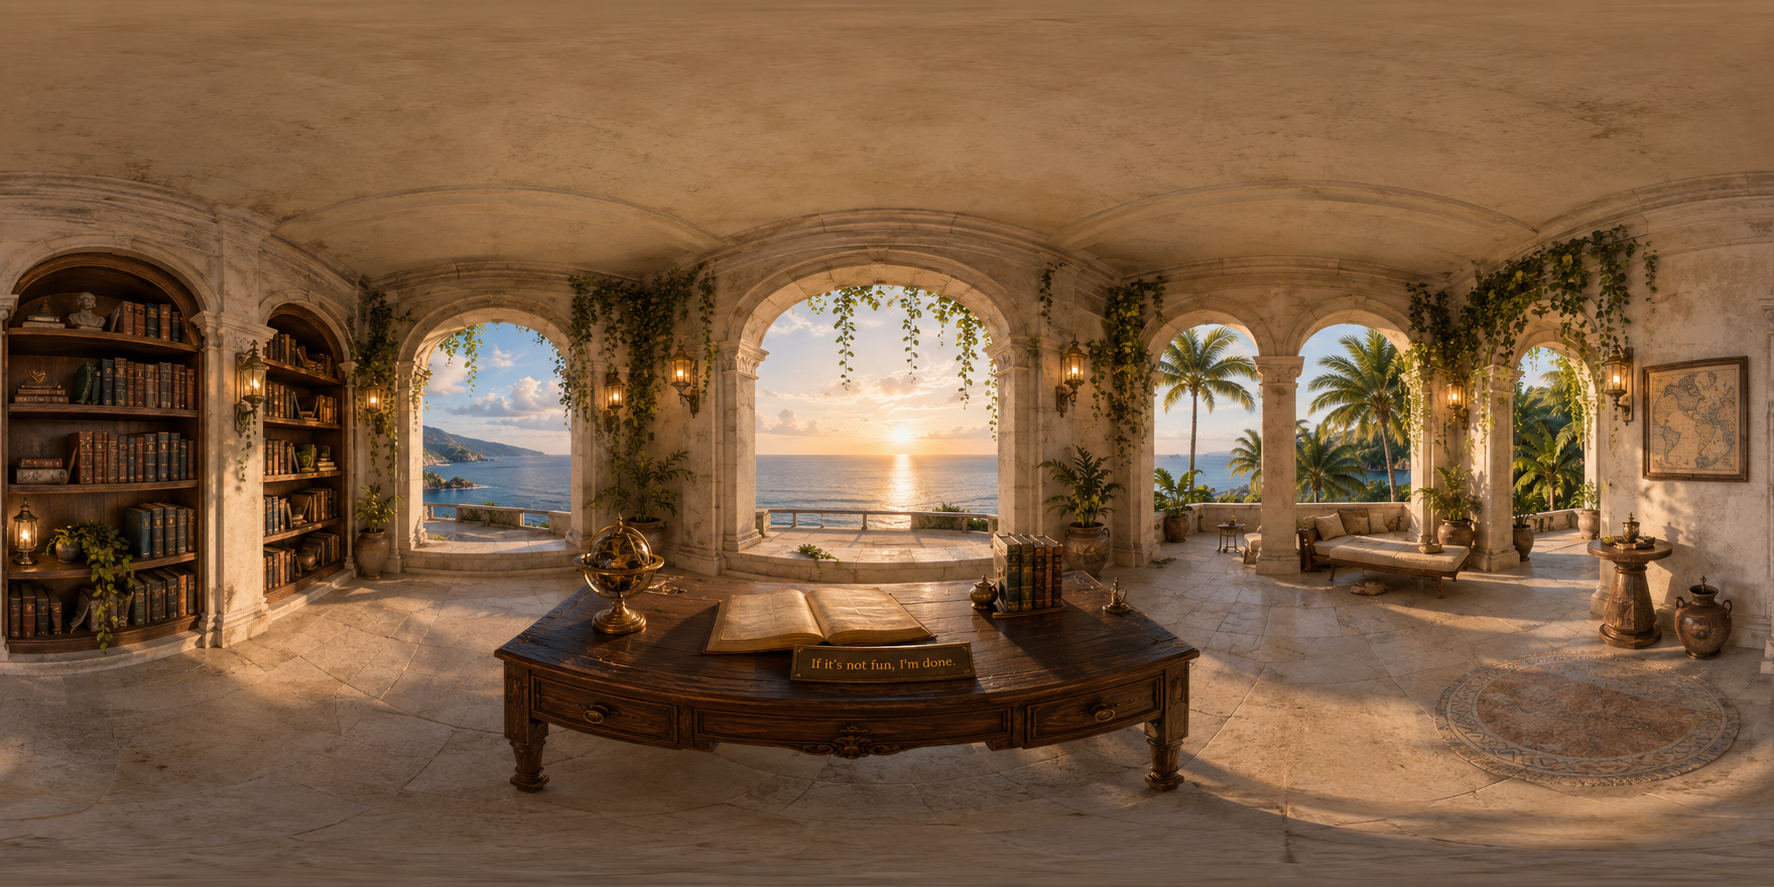
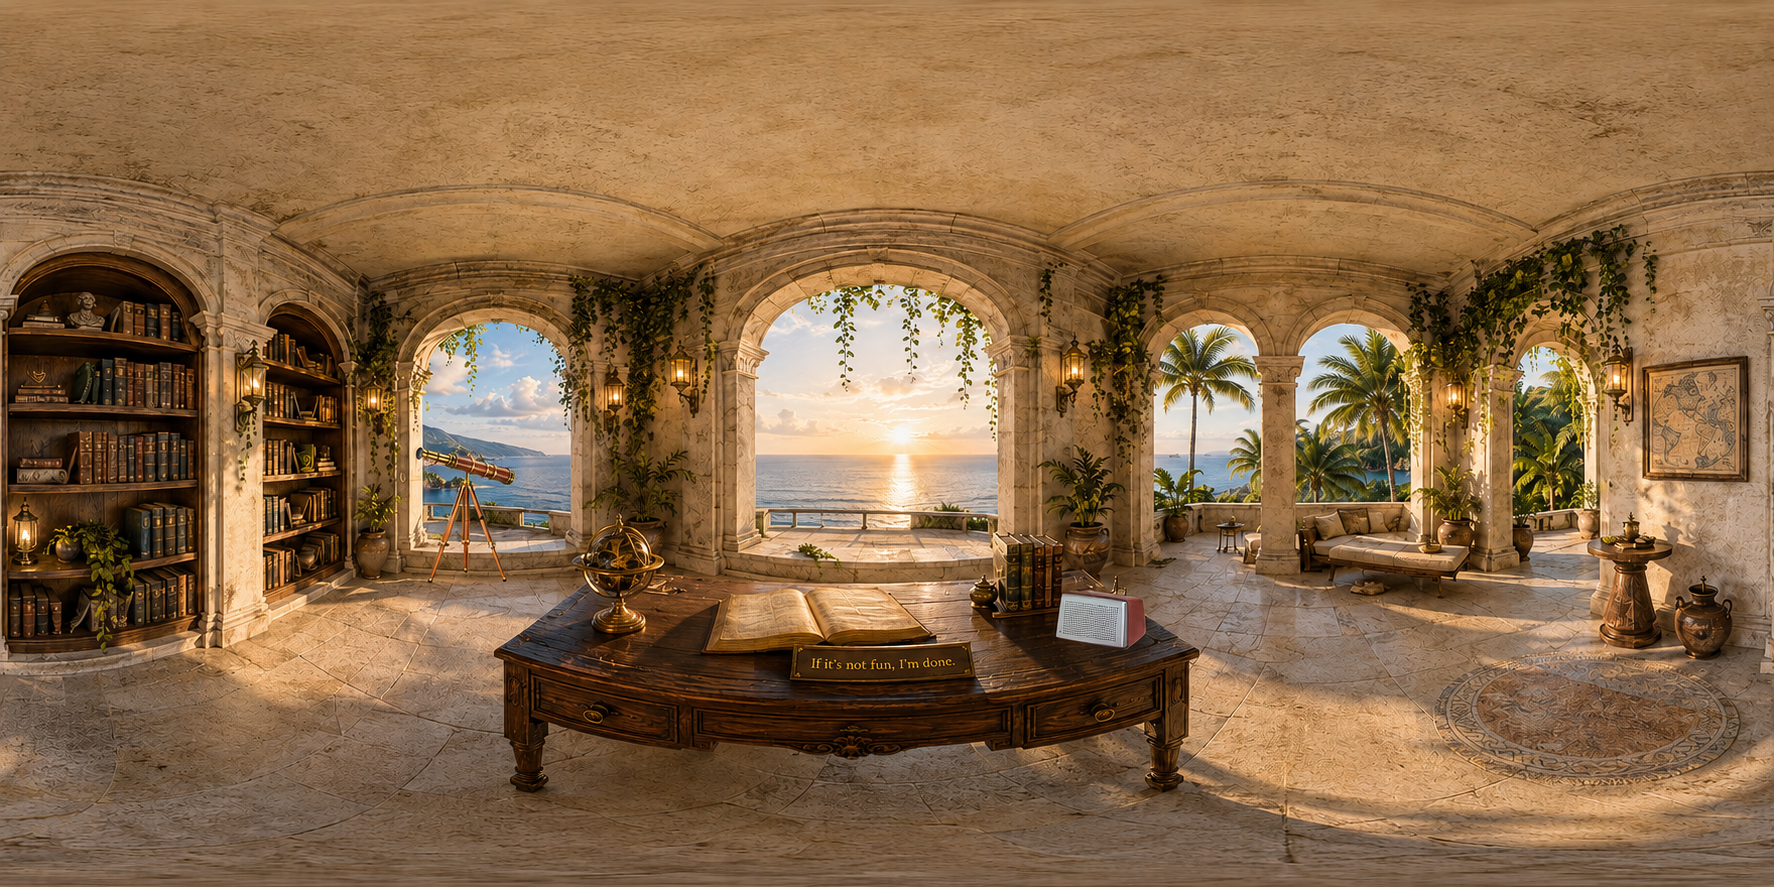
HOLOSPHERE: real telescope + intercom hotspots, new panorama with both baked in
Replaces the fixed-screen placeholder intercom button from the first
pass with genuine 3D-positioned hotspots for both the telescope and
the intercom, since both are now actually rendered in this new
panorama (previous version only had the intercom as a UI overlay,
nothing telescope-related at all).

Positions determined by actually measuring pixel coordinates on the
real panorama image (crop + pixel math, not guessed), then converted
from image UV space to spherical lon/lat: telescope at (84.42, -9.44),
intercom at (216.12, -30.34). Both hotspots are real Vector3 points in
the Three.js scene, projected to screen space every frame via
camera.project(), so they track correctly as the user drags to look
around, and correctly hide themselves when facing away (behind the
camera) rather than showing a wrapped/flipped position.

New: clicking the telescope shows a random image from a boat pool
(currently just one real asset -- the life-preserver/pina-colada
shot -- more filenames can be added to the BOAT_IMAGES array as
they're generated, no other code changes needed).

Honest flag, not silently assumed: since this panorama is a fresh
regeneration rather than an edit of the previously-tested one, the
computed hotspot positions haven't been visually re-verified the way
earlier panoramas were checked in Blender (Blender was closed
mid-session). Worth a live look once this deploys to confirm the
markers actually land on the telescope and intercom, not just
mathematically close.
[…]

diff --git a/holosphere/index.html b/holosphere/index.html
@@ -19,29 +19,33 @@
     transition: opacity 0.8s ease;
   }
 
-  /* Intercom call button -- a real, styled stand-in until a rendered
-     intercom is actually baked into a future panorama pass. */
-  #intercom-btn {
-    position: fixed; bottom: 8vh; left: 50%; transform: translateX(-50%);
-    z-index: 20; width: 64px; height: 64px; border-radius: 50%;
-    background: radial-gradient(circle at 35% 30%, #b5442e, #7a2a1a);
-    border: 3px solid #d4af37; box-shadow: 0 0 20px rgba(212,175,55,0.5);
-    cursor: pointer; display: flex; align-items: center; justify-content: center;
-    animation: intercomPulse 2.4s ease-in-out infinite;
+  /* 3D hotspot markers -- positioned in world space via raycasting,
+     not fixed screen positions. Both the telescope and intercom are
+     now genuinely rendered in the panorama art itself. */
+  .hotspot-marker {
+    position: fixed; width: 40px; height: 40px; margin: -20px 0 0 -20px;
+    border-radius: 50%; border: 2px solid #d4af37;
+    background: rgba(212,175,55,0.15);
+    box-shadow: 0 0 16px rgba(212,175,55,0.6);
+    cursor: pointer; z-index: 20; pointer-events: auto;
+    animation: hotspotPulse 2.2s ease-in-out infinite;
   }
-  #intercom-btn::before {
-    content: ''; width: 26px; height: 26px; border-radius: 50%;
-    background: repeating-radial-gradient(circle, #ddd 0px, #ddd 1.5px, transparent 1.5px, transparent 4px);
+  @keyframes hotspotPulse {
+    0%, 100% { transform: scale(1); opacity: 0.75; }
+    50% { transform: scale(1.25); opacity: 1; }
   }
-  @keyframes intercomPulse {
-    0%, 100% { box-shadow: 0 0 20px rgba(212,175,55,0.5); }
-    50% { box-shadow: 0 0 34px rgba(212,175,55,0.9); }
+
+  /* Boat reveal panel -- shown when the telescope hotspot is clicked */
+  #boat-panel {
+    position: fixed; inset: 0; z-index: 60; display: none;
+    align-items: center; justify-content: center;
+    background: rgba(0,0,0,0.75);
   }
-  #intercom-label {
-    position: fixed; bottom: 4.5vh; left: 50%; transform: translateX(-50%);
-    z-index: 20; color: #d4af37; font-size: 0.75rem; letter-spacing: 0.2em;
-    text-transform: uppercase; text-shadow: 0 0 8px rgba(0,0,0,0.8);
-    pointer-events: none;
+  #boat-panel img { max-width: 70vw; max-height: 70vh; border-radius: 50%; }
+  #boat-close {
+    position: fixed; top: 30px; right: 30px; z-index: 61;
+    color: #d4af37; font-size: 2rem; cursor: pointer;
+    background: none; border: none; display: none;
   }
 
   /* Welcome panel */
@@ -77,8 +81,13 @@
 <div id="loading-overlay">ENTERING THE HOLOSPHERE&hellip;</div>
 <canvas id="holosphere-canvas"></canvas>
 
-<div id="intercom-btn" aria-label="Call the intercom"></div>
-<div id="intercom-label">Tap to call</div>
+<div id="intercom-hotspot" class="hotspot-marker" style="display:none;"></div>
+<div id="telescope-hotspot" class="hotspot-marker" style="display:none;"></div>
+
+<div id="boat-panel">
+  <img id="boat-image" src="boat-01.png" alt="A distant sight through the telescope" />
+</div>
+<button id="boat-close" aria-label="Close">&times;</button>
 
 <div id="welcome-panel">
   <div id="welcome-box">
@@ -170,6 +179,45 @@
   }, { passive: true });
   canvas.addEventListener("touchend", onPointerUp);
 
+  // --- 3D hotspot markers ---
+  // Positions computed from the actual panorama image: cropped and
+  // pixel-measured to find the telescope and intercom, then converted
+  // from image UV coordinates to spherical lon/lat. Placed at a radius
+  // just inside the panorama sphere so they sit "on" the objects they
+  // represent rather than floating in front of them.
+  function lonLatToVector3(lonDeg, latDeg, radius) {
+    const phi = THREE.MathUtils.degToRad(90 - latDeg);
+    const theta = THREE.MathUtils.degToRad(lonDeg);
+    return new THREE.Vector3(
+      radius * Math.sin(phi) * Math.cos(theta),
+      radius * Math.cos(phi),
+      radius * Math.sin(phi) * Math.sin(theta)
+    );
+  }
+
+  const HOTSPOT_RADIUS = 480;
+  const telescopePos = lonLatToVector3(84.42, -9.44, HOTSPOT_RADIUS);
+  const intercomPos = lonLatToVector3(216.12, -30.34, HOTSPOT_RADIUS);
+
+  const telescopeEl = document.getElementById("telescope-hotspot");
+  const intercomEl = document.getElementById("intercom-hotspot");
+  telescopeEl.style.display = "block";
+  intercomEl.style.display = "block";
+
+  function projectToScreen(vec3, el) {
+    const projected = vec3.clone().project(camera);
+    // Behind the camera -- hide rather than show a flipped/wrapped position.
+    if (projected.z > 1) {
+      el.style.display = "none";
+      return;
+    }
+    el.style.display = "block";
+    const x = (projected.x * 0.5 + 0.5) * window.innerWidth;
+    const y = (-projected.y * 0.5 + 0.5) * window.innerHeight;
+    el.style.left = x + "px";
+    el.style.top = y + "px";
+  }
+
   function animate() {
     requestAnimationFrame(animate);
     const phi = THREE.MathUtils.degToRad(90 - lat);
@@ -180,6 +228,8 @@
       500 * Math.sin(phi) * Math.sin(theta)
     );
     camera.lookAt(target);
+    projectToScreen(telescopePos, telescopeEl);
+    projectToScreen(intercomPos, intercomEl);
     renderer.render(scene, camera);
   }
   animate();
@@ -191,15 +241,13 @@
   });
 
   // --- Intercom interaction ---
-  const intercomBtn = document.getElementById("intercom-btn");
-  const intercomLabel = document.getElementById("intercom-label");
   const welcomePanel = document.getElementById("welcome-panel");
   const welcomeText = document.getElementById("welcome-text");
   const welcomeChoices = document.getElementById("welcome-choices");
 
-  intercomBtn.addEventListener("click", () => {
-    intercomBtn.style.display = "none";
-    intercomLabel.style.display = "none";
+  intercomEl.addEventListener("click", () => {
+    telescopeEl.style.display = "none";
+    intercomEl.style.display = "none";
     welcomePanel.style.display = "flex";
     requestAnimationFrame(() => {
       welcomeText.style.opacity = "1";
@@ -212,6 +260,28 @@
   });
   document.getElementById("choice-wander").addEventListener("click", () => {
     window.location.href = "/s3";
+  });
+
+  // --- Telescope interaction ---
+  const boatPanel = document.getElementById("boat-panel");
+  const boatClose = document.getElementById("boat-close");
+  const boatImage = document.getElementById("boat-image");
+
+  // Pool of boat images -- currently just the one real generated asset.
+  // Add more filenames here as they're generated, and this will pick
+  // randomly among them each time the telescope is used.
+  const BOAT_IMAGES = ["boat-01.png"];
+
+  telescopeEl.addEventListener("click", () => {
+    const choice = BOAT_IMAGES[Math.floor(Math.random() * BOAT_IMAGES.length)];
+    boatImage.src = choice;
+    boatPanel.style.display = "flex";
+    boatClose.style.display = "block";
+  });
+
+  boatClose.addEventListener("click", () => {
+    boatPanel.style.display = "none";
+    boatClose.style.display = "none";
   });
 })();
 </script>
